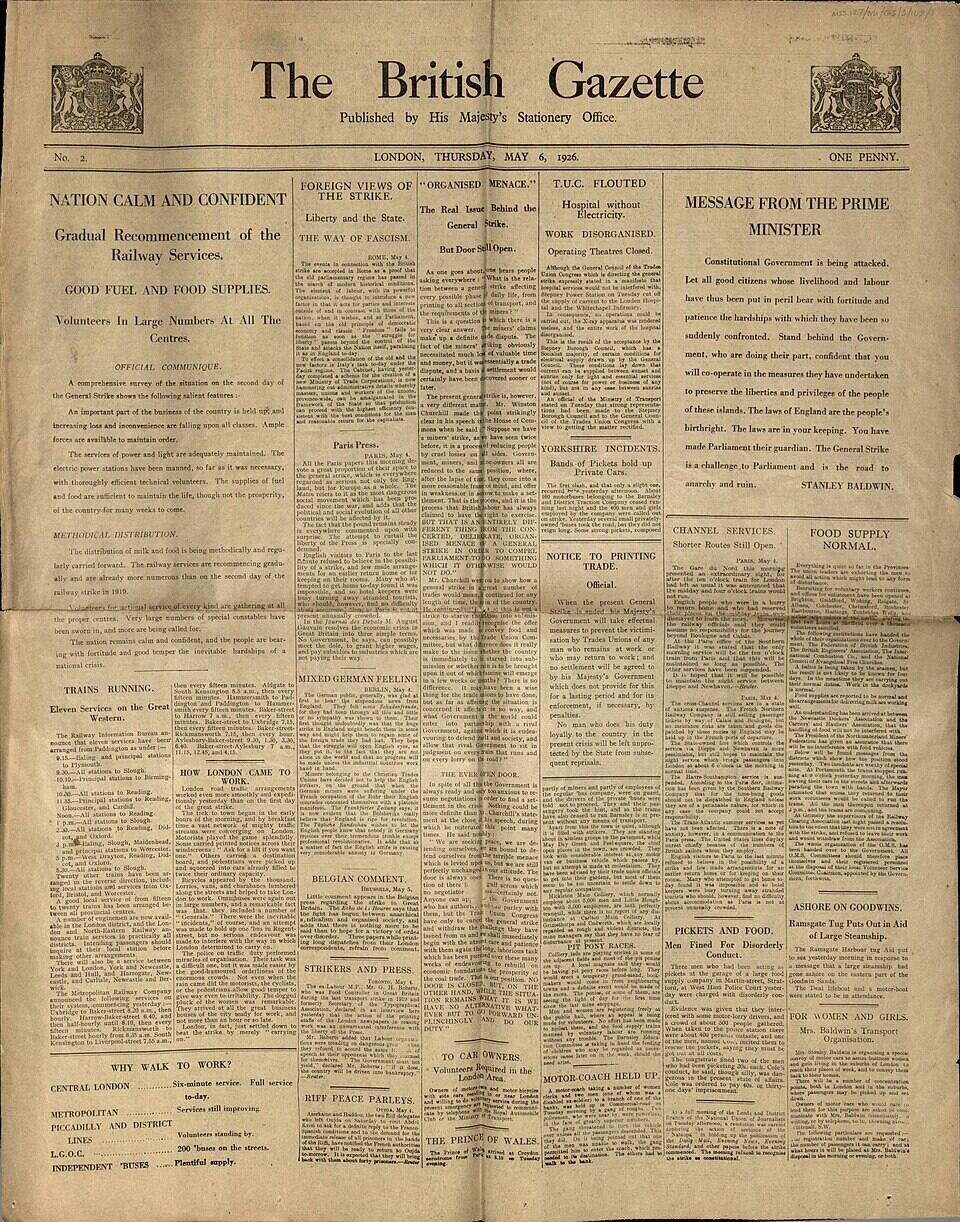
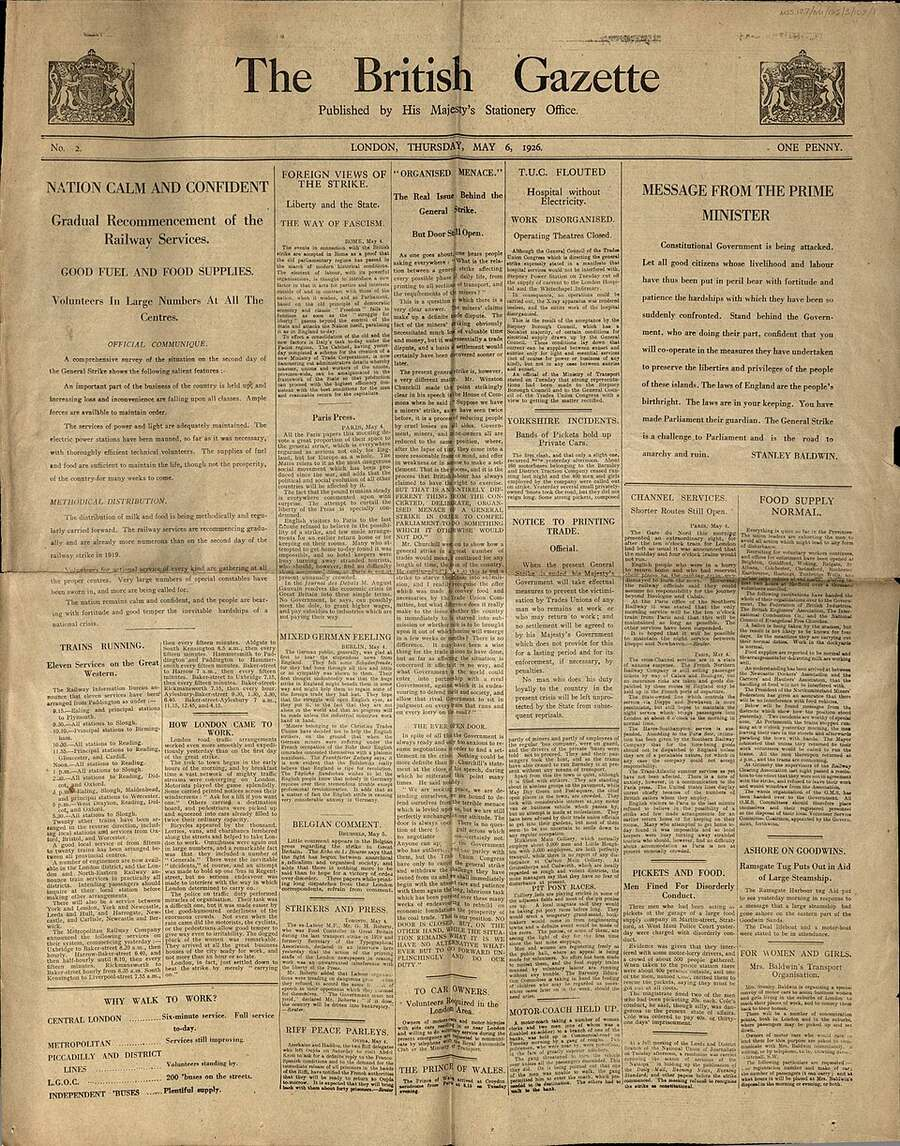
WIP: проміжний стан агентів
Claude-Session: https://claude.ai/code/session_012c9FCoRjCe6cvgVAshEti5

diff --git a/content/ukr/pool-g5-u5s10.js b/content/ukr/pool-g5-u5s10.js
@@ -125,7 +125,7 @@ SLID.pool("ukr", {
         ["Вітер з моря море розгойдав, хвилями здійнялися простори.", 0]
       ],
       hint: "Подивись на межу між частинами: є там сполучник чи лише кома?",
-      steps: ["Сполучниковий: частини поєднують <b>як</b>, <b>а</b>.", "Безсполучниковий: між частинами лише кома й інтонація. «І» у прислів'ї про вербу стоїть усередині другої частини, а не між частинами."] },
+      steps: ["Сполучниковий: частини поєднують <b>як</b>, <b>а</b>.", "Безсполучниковий: між частинами лише кома й інтонація: <i>кукурудза шелестить — озимина ніжиться</i>, <i>вітер відносить — бур'ян чіпляється</i>, <i>вітер розгойдав — простори здійнялися</i>."] },
     { id: "a17", lesson: "u5s10l3", lvl: 2, sk: "punct", src: "z5 впр. 496(2)", srcPage: 202,
       type: "gaps", title: "Однорідні присудки чи дві основи?",
       body: "<p>Постав кому перед «і» там, де вона потрібна.</p>",

diff --git a/memory/short/inbox.md b/memory/short/inbox.md
@@ -466,3 +466,8 @@
 - 2026-11-11 · w-write-ukr-u11s5 · FACT (ukr 11): -ся + орудний виконавця («Двері відчиняються водієм») — невдало: З11 с. 85; АД https://osvita.ua/school/literature/a/79209/list-4.html ; Гінзбург 2024 https://ekmair.ukma.edu.ua/handle/123456789/33122 . Пасивний дієприкметник-присудок АД допускає (list-34) → «Закон підписано / підписаний» лише порада — self.
 - 2026-11-11 · w-write-ukr-u11s5 · FACT (ukr 11): посада ч. р. + жіноче ім'я → присудок ж. р. («Директор Ольга Коваленко підписала») — З11 с. 82; https://naurok.com.ua/gramatichni-zv-yazki-pidmeta-i-prisudka-444170.html — self.
 - 2026-11-11 · w-write-ukr-u11s5 · PLAN (ukr): у u11s5 `requires` додано u8s7l2, u8s8l1 (verified) — синхронізувати plan.js (куратор).
+- 2026-11-11 · verifier-dgu9 · VERIFY write-ukr-diag-g9 → done: dgu9 verified, 28/28 ключів збіглися; 1 змістова правка (№23 — об'єднання двох речень для learned 4 u9s6l2). Звіт reports/verify/dgu9.md.
+- 2026-11-11 · verifier-dgu9 · FACT (ukr): «прес-конференція» в Горосі — з позначкою «Правопис 1992 року» (https://goroh.pp.ua/Словозміна/прес-конференція), норма «пресконференція» (УП § 35 п. 5, https://slovnyk.ua/pravopys.php?prav_par=35); «фітнес-клуб» — дефіс (УП § 36, https://slovnyk.ua/pravopys.php?prav_par=36) — оцінювати можна (D-041, уточнення). v (verifier-dgu9).
+- 2026-11-11 · verifier-dgu9 · FACT (ukr 9): З9 с. 67 — «Я зателефоную, коли приїду додому» — коли сполучник; «Я не знаю, коли повернуся» — сполучне слово; https://file.4book.org/images/shcoolbook_ua/9/9_um_z_2026.pdf. v (verifier-dgu9).
+- 2026-11-11 · verifier-dgu9 · IDEA plan: тема isol у dgu9 має `for` u9s10, u9s11 (дієприслівниковий зворот у змісті), але u8s11l1/u8s12l1 немає в їхніх requires — куратору: додати u8s12l1 у requires u9s10, u9s11 або прибрати з `for`.
+- 2026-11-11 · verifier-dgu9 · PITFALL (ukr, тести рівня): у cur-multi learned «об'єднувати / перебудовувати» не перевіряється варіантом лише з готовим реченням — давай вихідні речення й результат («Два речення «…» можна об'єднати так: «…»»).

diff --git a/tasks/done/write-ukr-diag-g9.md b/tasks/done/write-ukr-diag-g9.md
@@ -6,7 +6,7 @@ type: write-diag
 subject: ukr
 grade: 9
 section: dgu9
-status: review
+status: done
 claimed_by: w-write-ukr-diag-g9
 created: 2026-11-10
 depends_on: [plan-ukr-g9]
@@ -82,3 +82,6 @@ depends_on: [plan-ukr-g9]
 4. №24 «Мама написала: автобус запізнюється» — розкриття змісту; тире тут теж можливе (§ 161 ІІ п. 3), але речення подано як правильне, а варіанта з тире немає.
 5. №7 без «О, …»: кома після «о» перед звертанням залежить від паузи (§ 158 п. 8 прим. 1) — свідомо не взяв.
 6. **Тривалість:** ≈ 815 слів; gaps 10 × ~20 с, choice 9 × ~15, sort 30 с, multi 8 × ~50 ≈ 12,8 хв на повний прохід (dgu8 ≈ 12,5). Кандидати на скорочення після пілоту — 6-й варіант у multi №17, №19.
+
+## Нотатки верифікатора
+**verifier-dgu9, 2026-11-11.** Вердикт: **verified** (звіт reports/verify/dgu9.md). Усі 28 завдань розв'язано незалежно; ключ збігся в 28/28; двох допустимих відповідей немає. Правки: №23 варіант 0 → явне об'єднання двох речень (learned 4 u9s6l2; ключ [0,2,5] без змін), коментар шапки «речення й» → «речення і» (§ 24), status → verified, factcheck → verifier-dgu9. Тривалість ≈ 13 хв — №17, №19 не скорочено (кожен варіант — окремий learned). Рекомендації: №21 кома при складеному сполучнику (з `rev` згодом); isol `for` u9s10/u9s11 — немає в requires. validate --diag dgu9 0/0; personalization-qa --diag dgu9 — ПРОПУЩЕНО (лише math), exit 0.
